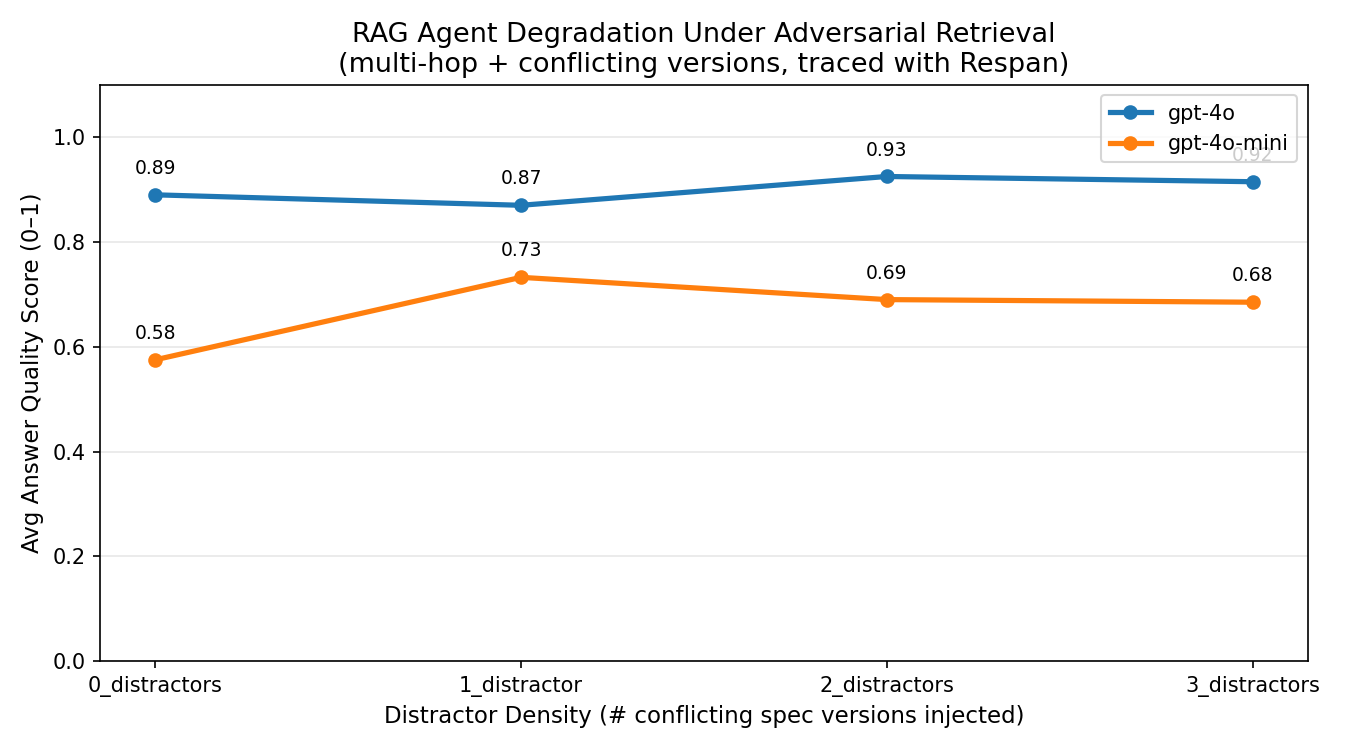
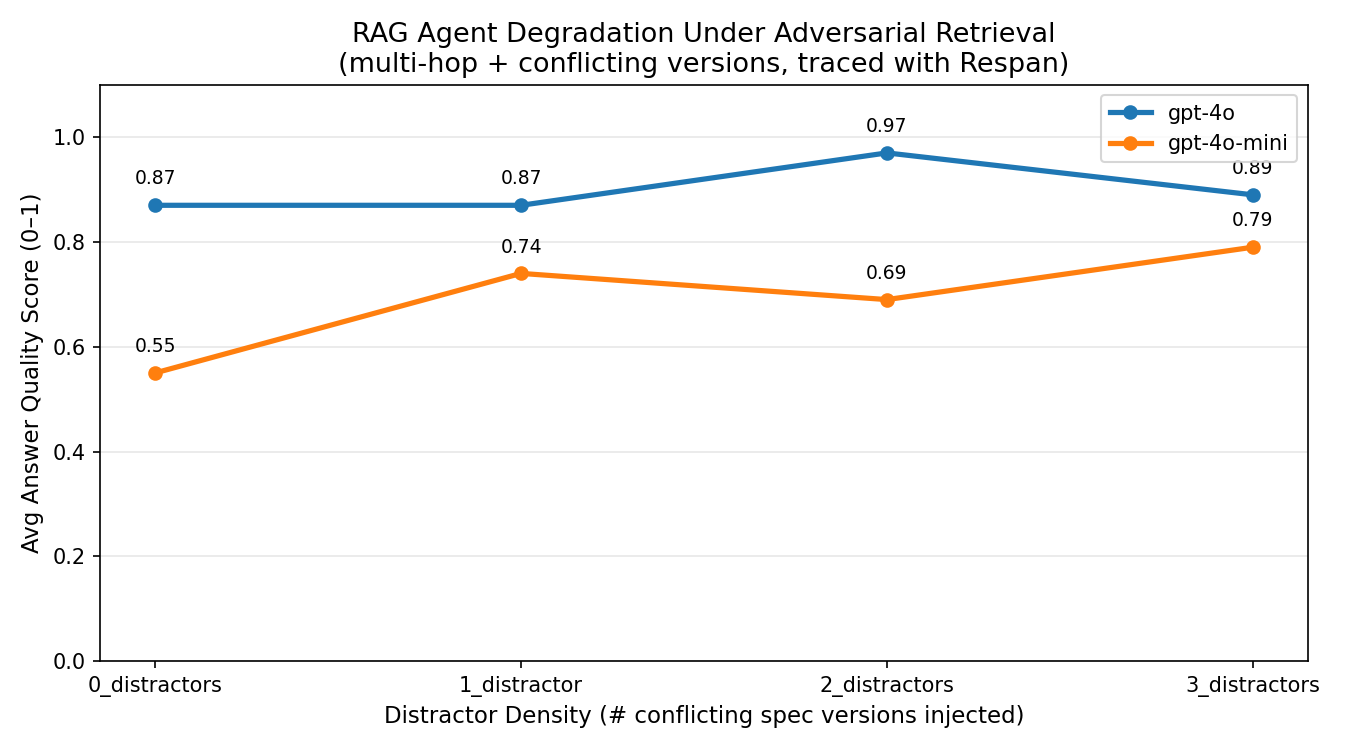
fix: route llm calls through respan, update readme

diff --git a/benchmark.py b/benchmark.py
@@ -11,8 +11,6 @@ between versions rather than just retrieve. the two relevant sections of the
 canonical spec are maximally separated, requiring true long-range synthesis
 under noise.
 
-paper reference: https://openreview.net/pdf?id=Gi4dBsSnbv
-
 stress variable: distractor density (# of conflicting spec versions injected)
 not raw token count.
 
@@ -44,8 +42,12 @@ load_dotenv()
 # init respan - auto-instr openai
 Respan()
 
-# load client
-openai_client = OpenAI(api_key=os.environ["OPENAI_API_KEY"])
+# load client — routed through respan gateway
+# => cost, latency, token usage appear natively in respan dashboard
+openai_client = OpenAI(
+    api_key=os.environ["RESPAN_API_KEY"],
+    base_url="https://api.respan.ai/api/",
+)
 MODELS = ["gpt-4o", "gpt-4o-mini"]
 
 # stress variable: how many conflicting spec versions are injected

diff --git a/README.md b/README.md
@@ -10,7 +10,7 @@ built with **Respan** for full agent trace observability.
 ## motivation
 
 context length alone doesn't break modern 128k-context models. what does break
-them is **adversarial retrieval**; when the retrieved context contains plausible
+them is **adversarial retrieval**: when the retrieved context contains plausible
 but wrong information that conflicts with the correct source. this is a real
 production failure mode: RAG systems routinely pull back multiple versions of
 the same doc, stale cache entries, or contradictory tool outputs.
@@ -18,12 +18,10 @@ the same doc, stale cache entries, or contradictory tool outputs.
 this benchmark quantifies that failure mode and measures how different models
 hold up under it.
 
-reference to paper: https://openreview.net/pdf?id=Gi4dBsSnbv
-
 ## what it does
 
 1. a RAG agent answers multi-hop questions over a fake internal engineering spec (Orion Inference Platform v2.3)
-2. every question requires connecting two sections of the canonical spec — no answer is a single extractable sentence
+2. every question requires connecting two sections of the canonical spec, no answer is a single extractable sentence
 3. the canonical spec is **split in half and maximally separated** in context, with distractors buried between them
 4. **distractor density** is the stress variable: 0 → 1 → 2 → 3 conflicting old spec versions (v2.1, v2.2, v2.3-draft) are injected, each with subtly wrong numbers that look authoritative
 5. an LLM-as-judge (gpt-4o-mini) scores each answer on faithfulness to v2.3 + conciseness, penalizing distractor blending explicitly
@@ -56,7 +54,26 @@ rag_agent_run  [workflow]
 └── evaluate_answer    [task]  — LLM-as-judge call, auto-traced
 ```
 
-all traces visible at `platform.respan.ai`.
+all 32 traces visible at `platform.respan.ai`. LLM calls are routed through
+Respan's gateway, so cost, latency, and token usage per model appear natively
+in the dashboard alongside the trace tree.
+
+## respan eval workflow
+
+respan's eval system is UI-first => evaluators are built as visual workflows in
+the dashboard and aren't callable inline from Python. the intended pattern is:
+
+1. **run the benchmark** - all 32 agent traces land in Respan automatically
+2. **sample spans into a dataset** - go to platform.respan.ai → Datasets →
+   create from production spans. filter by `span_workflow_name=rag_agent_run`
+   to pull exactly the benchmark runs
+3. **build an evaluator** - Evaluators page → new LLM grader → paste the
+   faithfulness definition from `evaluate_answer` in benchmark.py, using
+   `{{input}}`, `{{output}}`, `{{expected_output}}` variables
+4. **run an experiment** - select your dataset + evaluator, run across both
+   models, compare scores in the Analytics tab
+
+the benchmark script handles step 1 fully automatically; steps 2–4 take ~10 minutes in the UI.
 
 ## setup
 
@@ -67,8 +84,12 @@ pip install respan-ai openai tabulate matplotlib python-dotenv
 add to `.env`:
 ```
 RESPAN_API_KEY=your_respan_api_key
-OPENAI_API_KEY=your_openai_api_key
 ```
+
+add your OpenAI key to Respan's gateway:
+`platform.respan.ai → Integrations → LLM Providers → OpenAI`
+
+all LLM calls route through Respan — no `OPENAI_API_KEY` needed in your env.
 
 ## run
 
@@ -78,9 +99,8 @@ python benchmark.py
 
 outputs a summary table to console + `degradation_curve.png`.
 
-## extending this (future commits)
-
+## extending this (future)
 - add Claude / Gemini via their respective clients (Respan auto-instruments both)
 - increase distractor count beyond 3 to find each model's breaking point
-- export the Respan dataset and run offline evals to compare prompt variants
+- use Respan's online evals to score production traffic automatically as distractor patterns change
 - add a retrieval quality score to isolate whether degradation is a retrieval failure or a reasoning failure